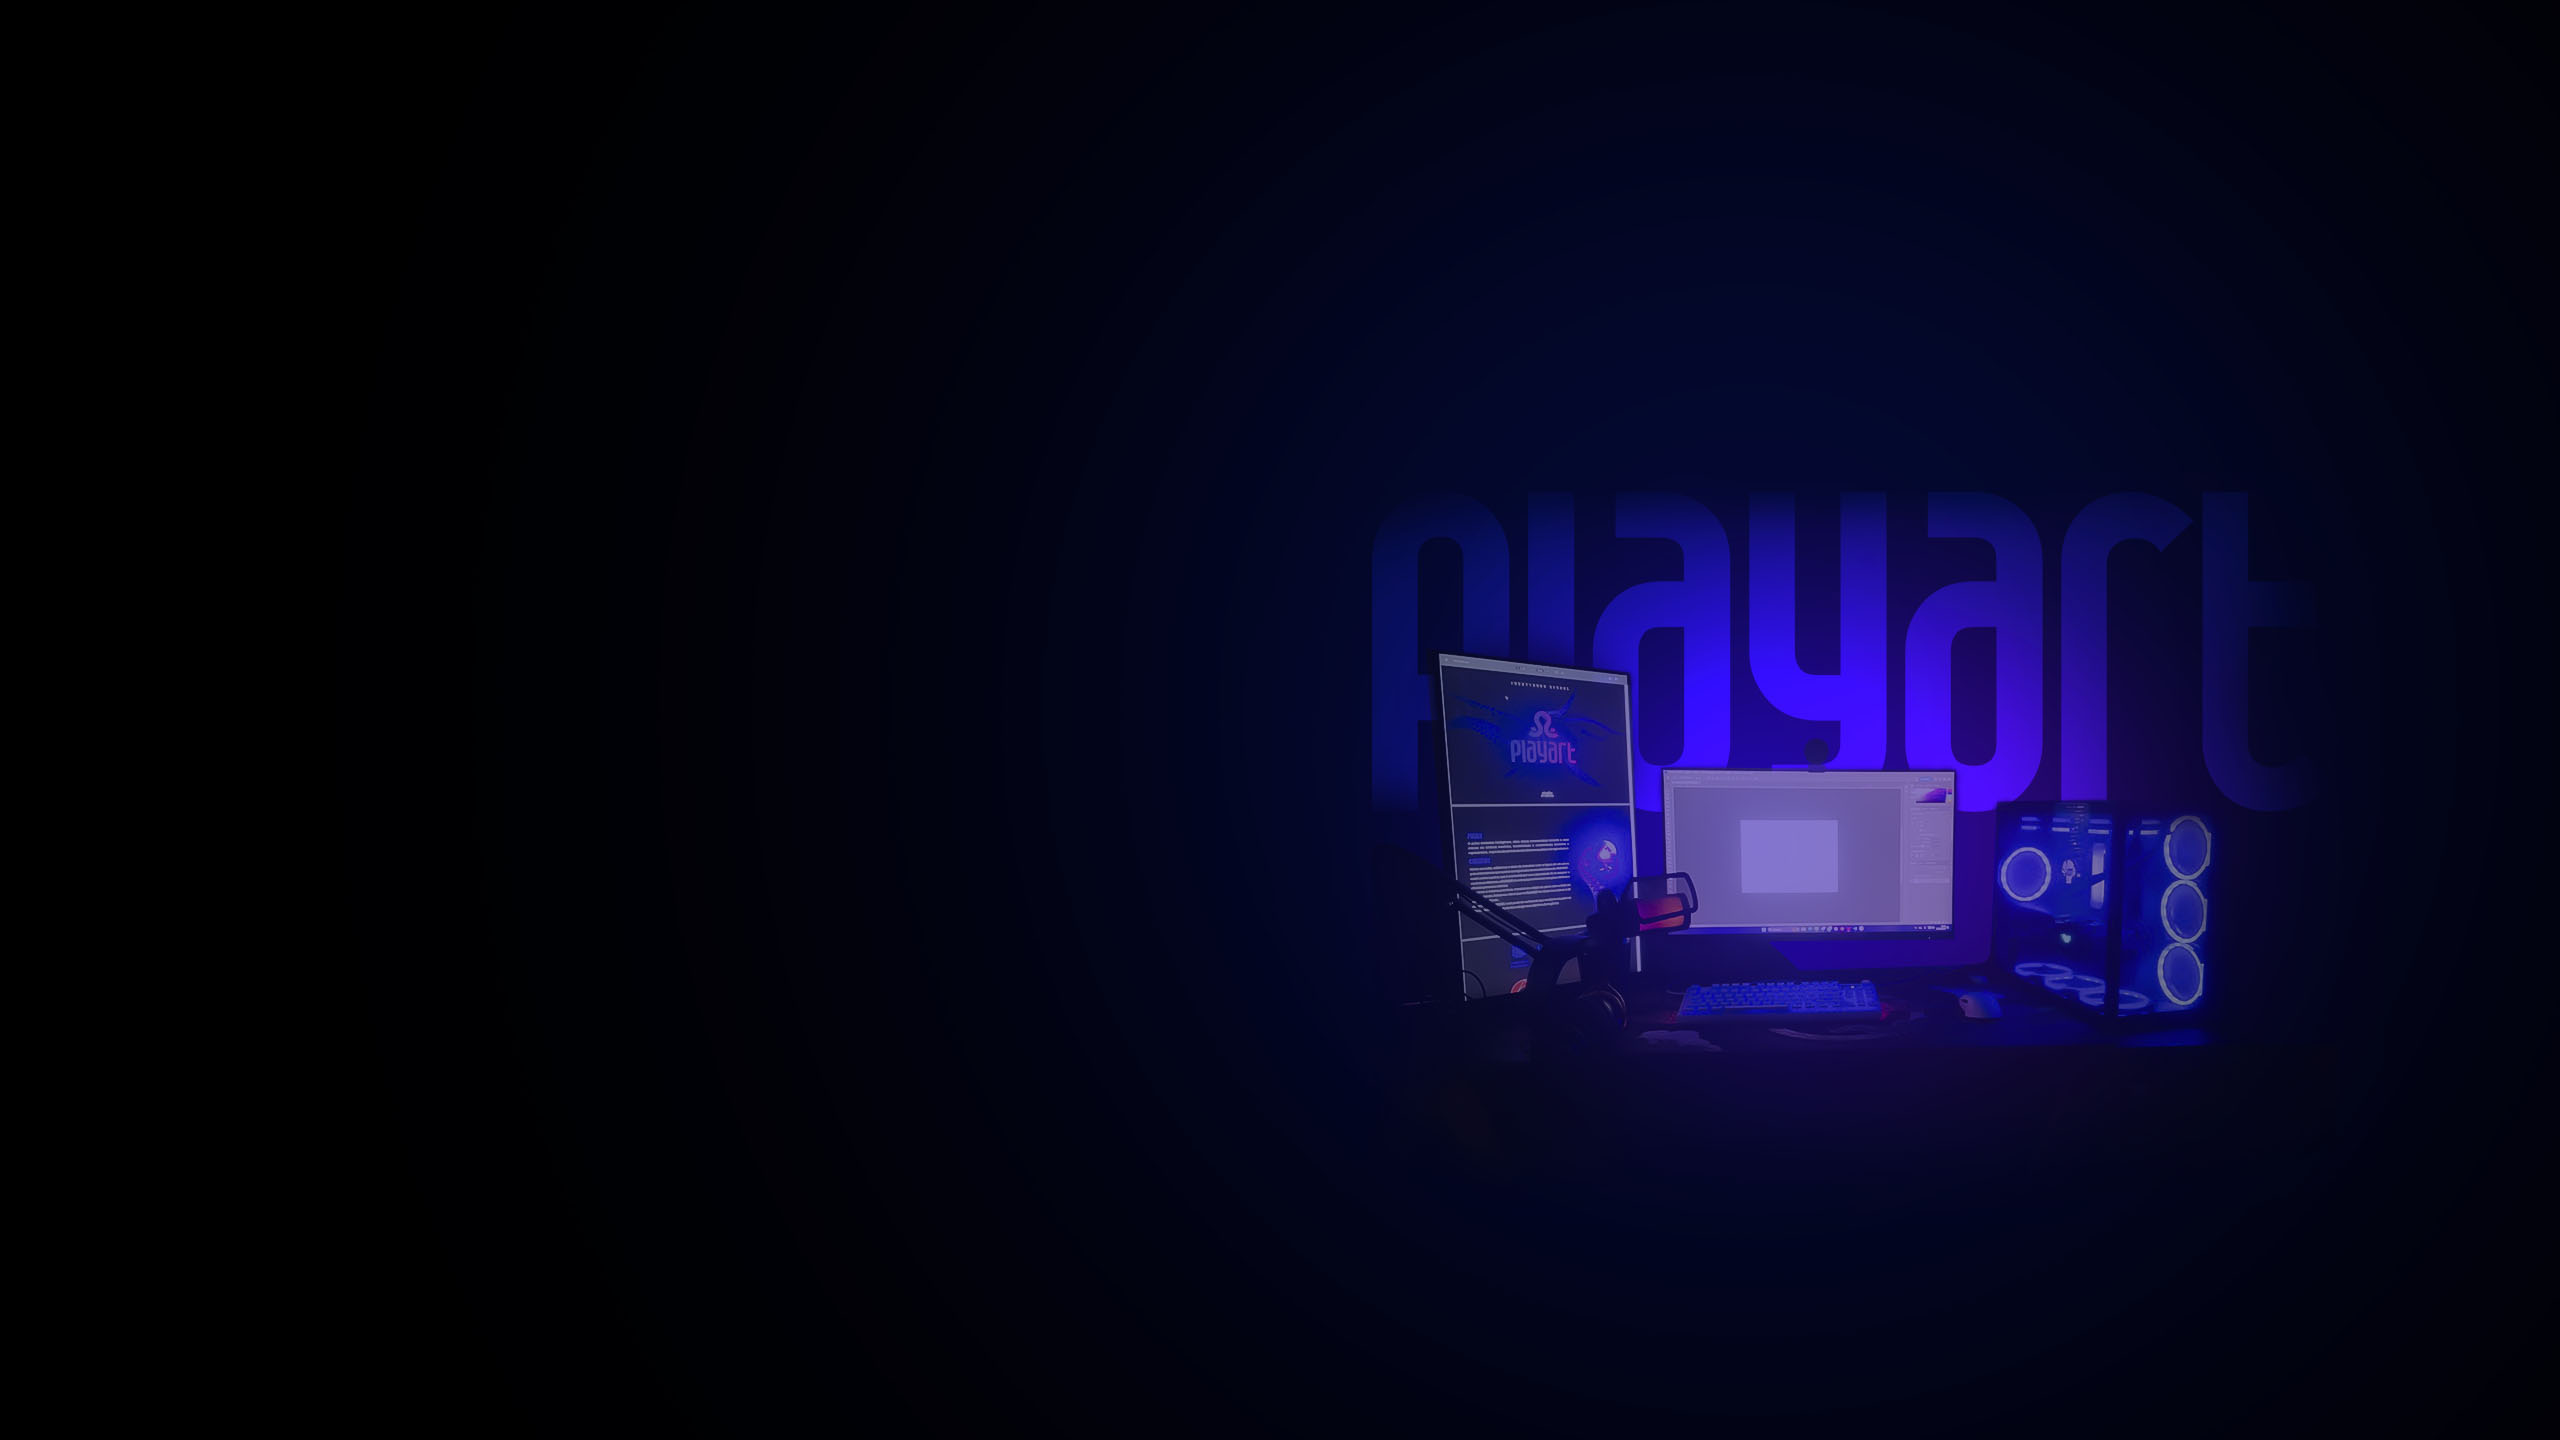
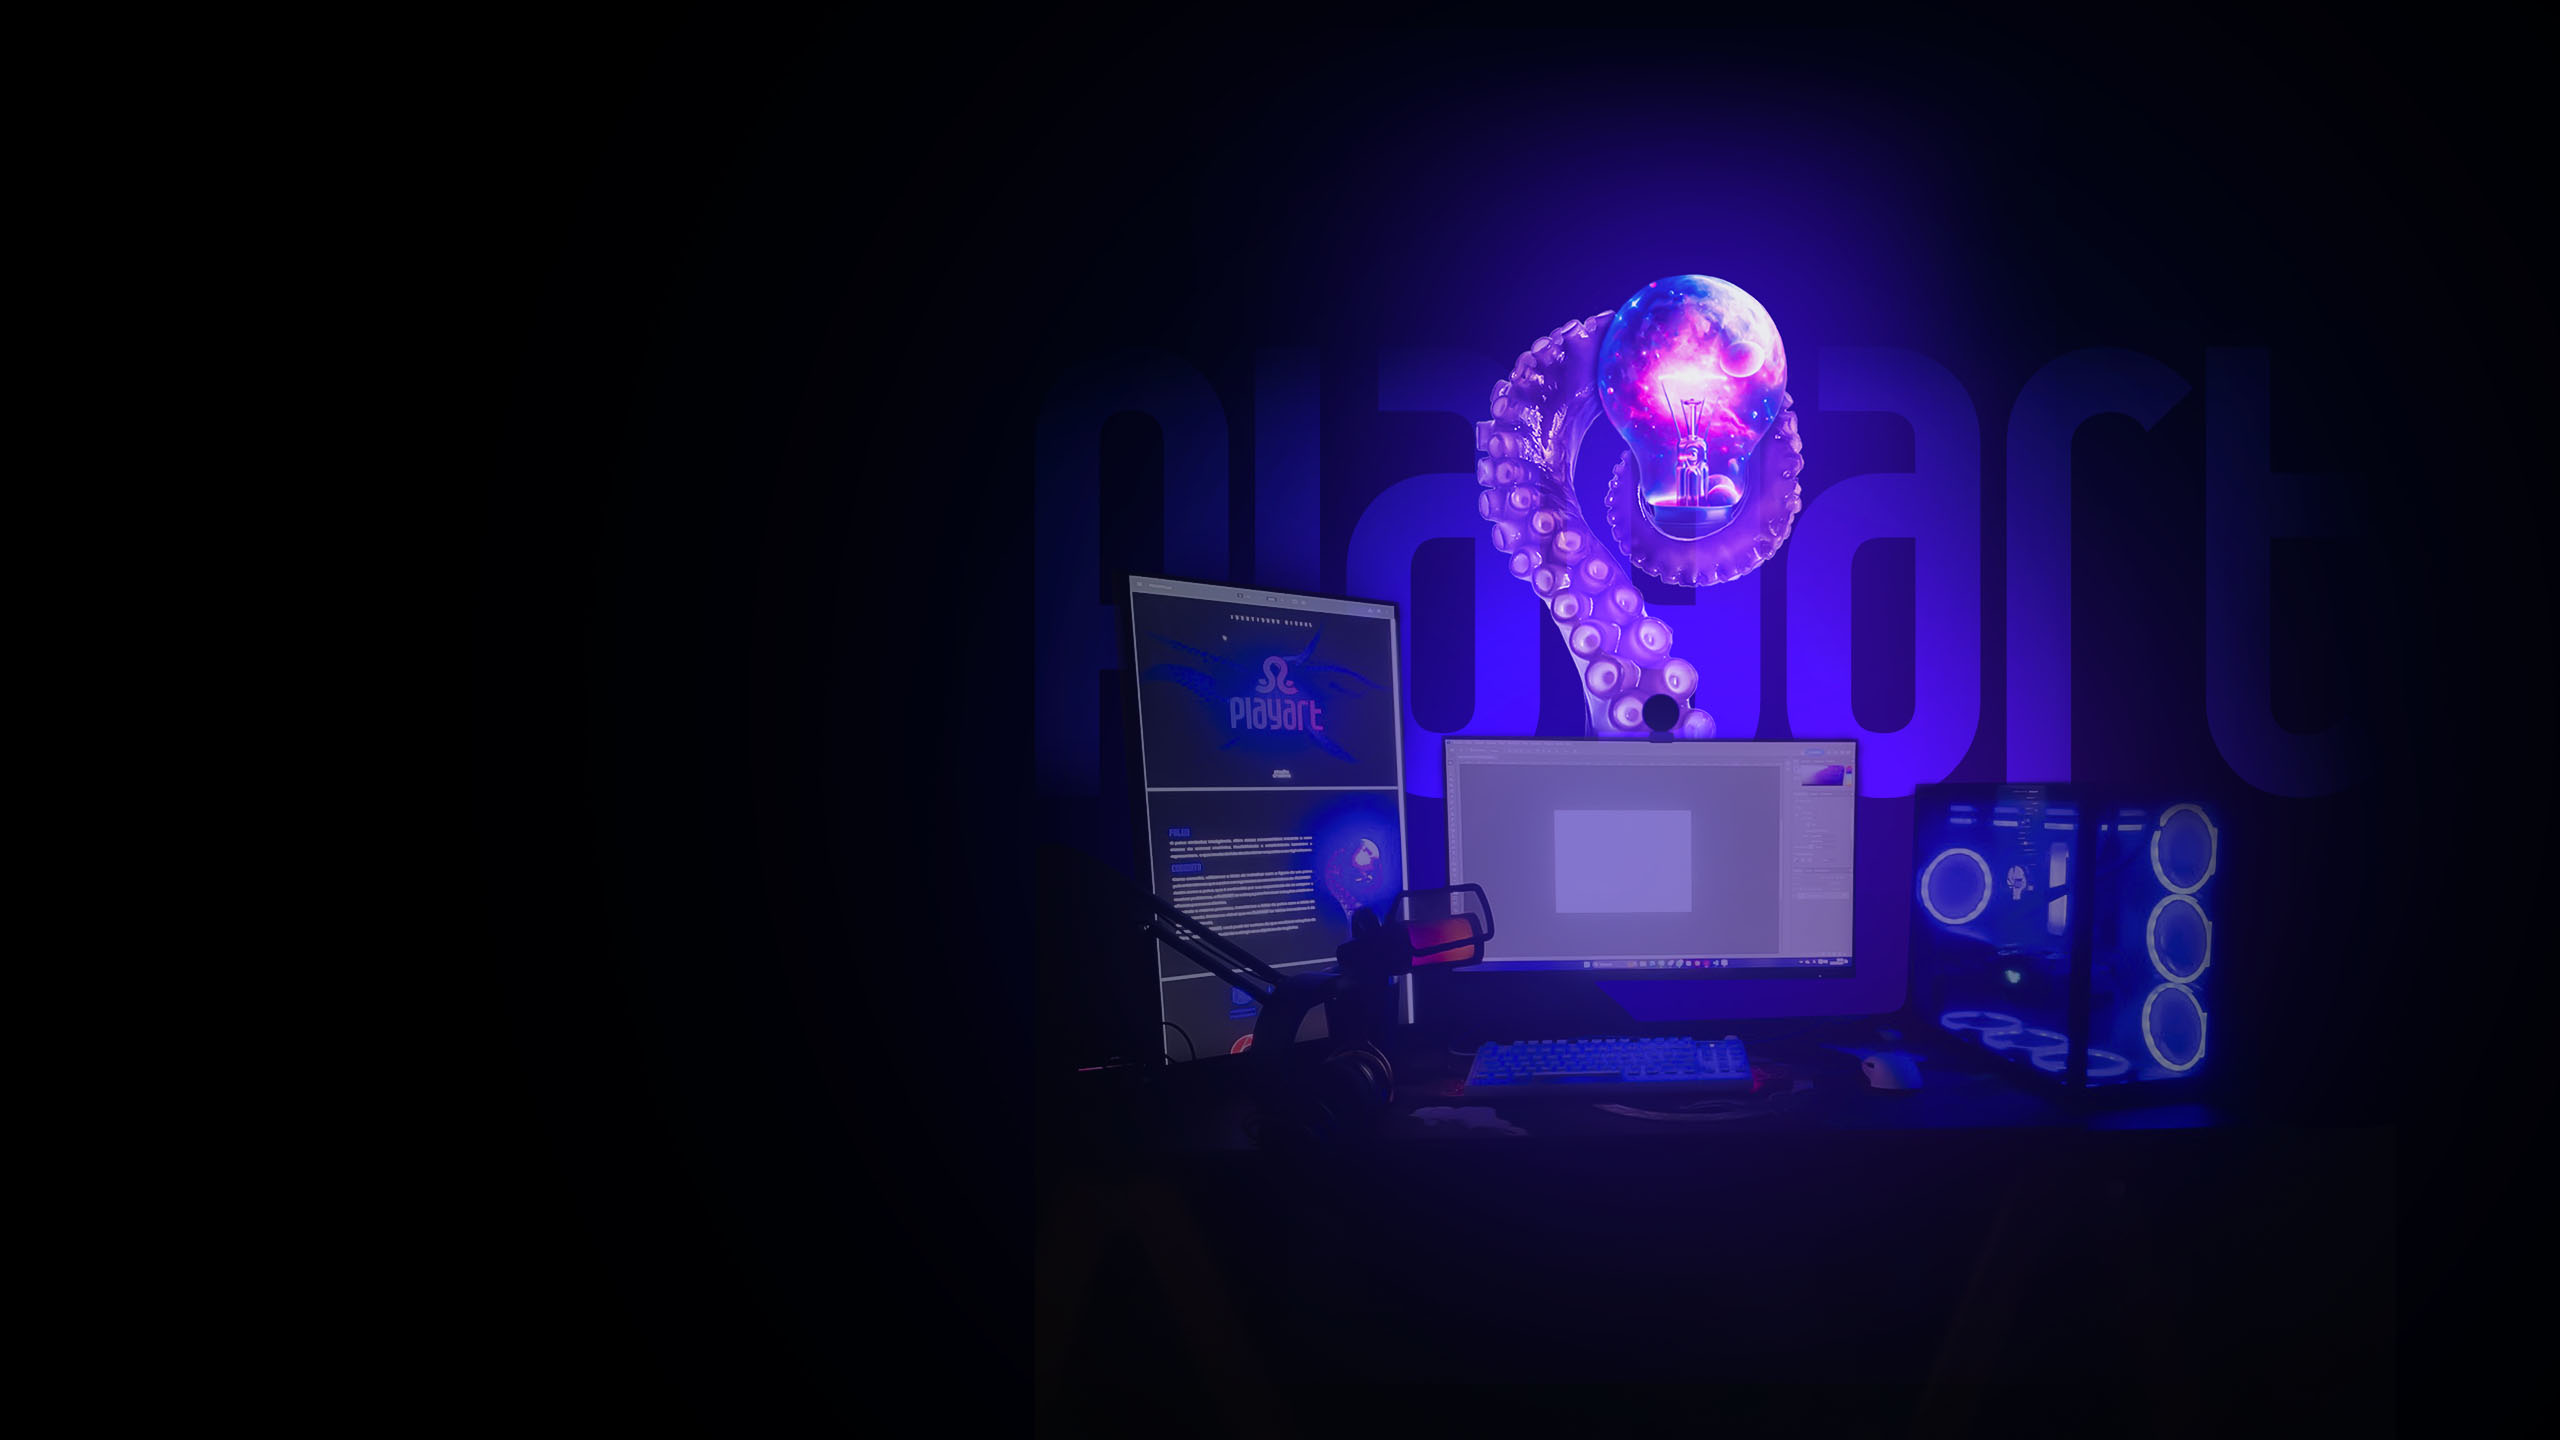
alteração do bground das paginas(feedback, sobre, contato)

Changed region(s): [[0.4062, 0.0625, 0.9062, 0.8125]]

diff --git a/feedback.html b/feedback.html
@@ -175,7 +175,8 @@
                     <!-- Hero Section -->
                     <div id="hero">
                         <div id="hero-styles">
-                            <div id="hero-caption" class="content-full-width parallax-scroll-caption text-align-center height-title">
+                            <div id="hero-caption" 
+                                class="background-container text-align-center height-title">
                                 <div class="inner">                                    
                                     <h1 class="hero-title caption-timeline primary-font-title"><span>feedback's</span></h1>
                                     <div class="hero-subtitle caption-timeline">

diff --git a/contato.html b/contato.html
@@ -185,7 +185,7 @@
                             <div id="hero">
                                 <div id="hero-styles">
                                     <div id="hero-caption"
-                                        class="content-full-width parallax-scroll-caption text-align-center height-title">
+                                        class="background-container text-align-center height-title">
                                         <div class="inner">
                                             <h1
                                                 class="hero-title caption-timeline primary-font-title"><span>CONTATO</span></h1>
